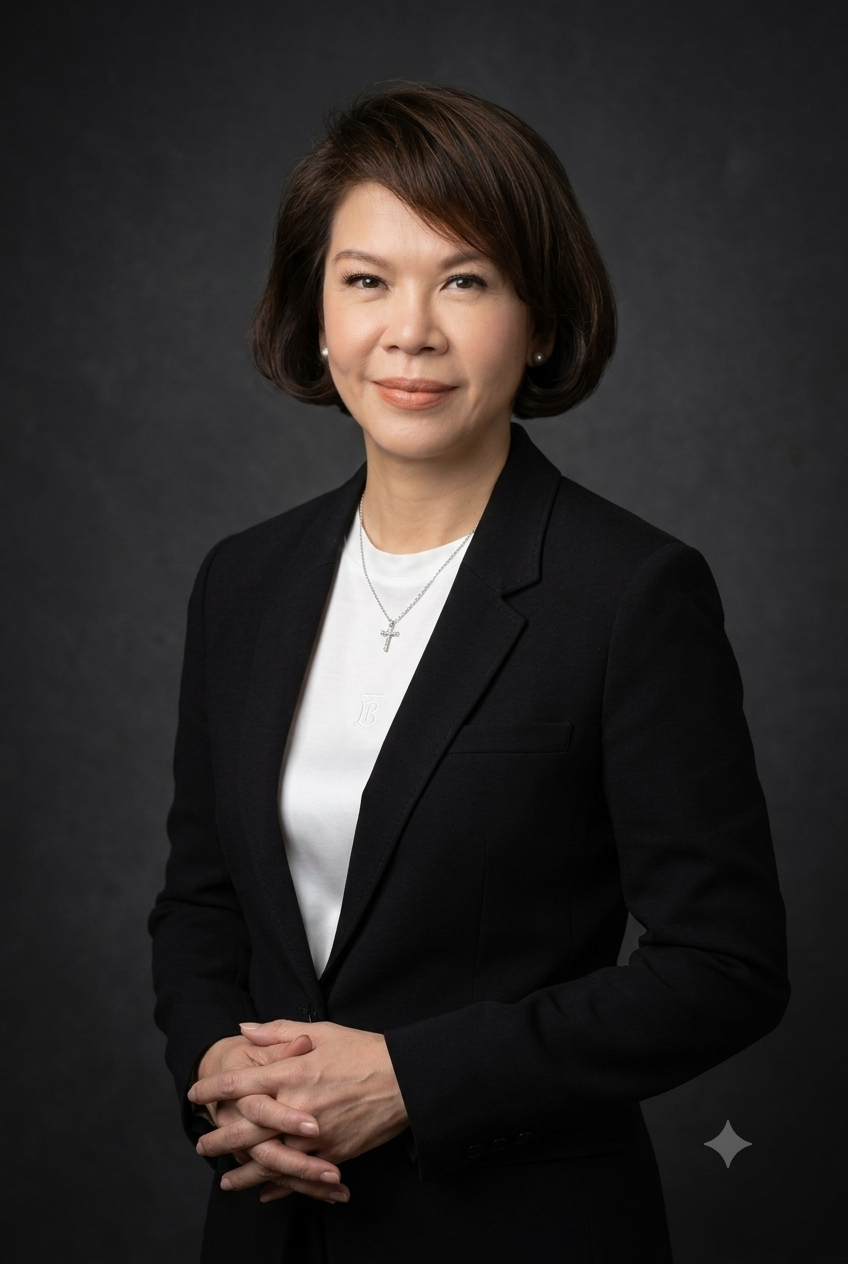
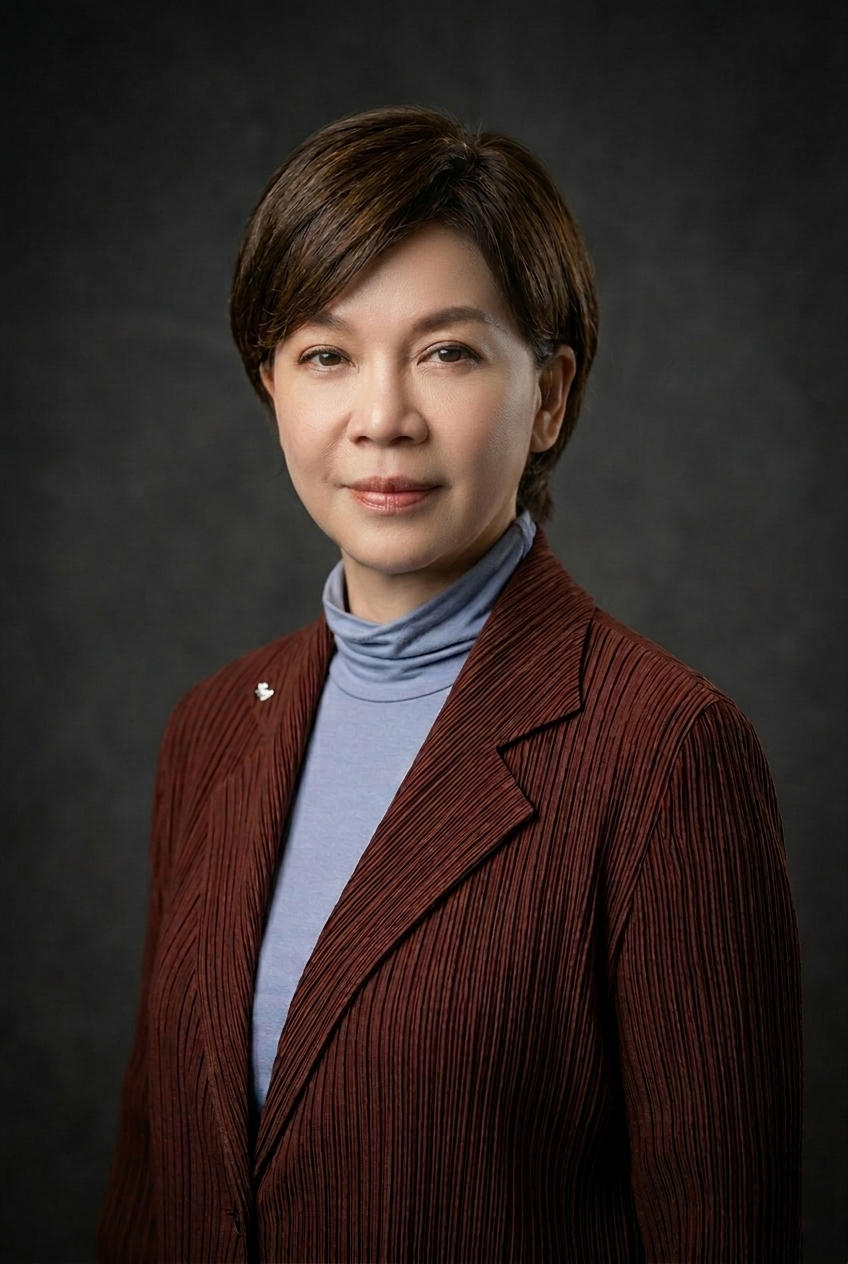
加上林以諾

diff --git a/src/components/Speakers/Speakers.jsx b/src/components/Speakers/Speakers.jsx
@@ -30,7 +30,7 @@ function SpeakerModal({ speaker, onClose }) {
         {speaker.img ? (
           <div className={styles.modalAvatarWrap}>
             <img
-              src={`${speaker.img}?v=2`}
+              src={`${speaker.img}?v=3`}
               alt={speaker.name}
               className={styles.modalAvatar}
             />

diff --git a/src/components/SpeakerCard/SpeakerCard.jsx b/src/components/SpeakerCard/SpeakerCard.jsx
@@ -12,7 +12,7 @@ export default function SpeakerCard({ name, title, img, onClick }) {
       <div className={styles.photoWrap}>
         {img ? (
           <img
-            src={`${img}?v=2`}
+            src={`${img}?v=3`}
             alt={name}
             className={styles.photo}
             loading="lazy"
